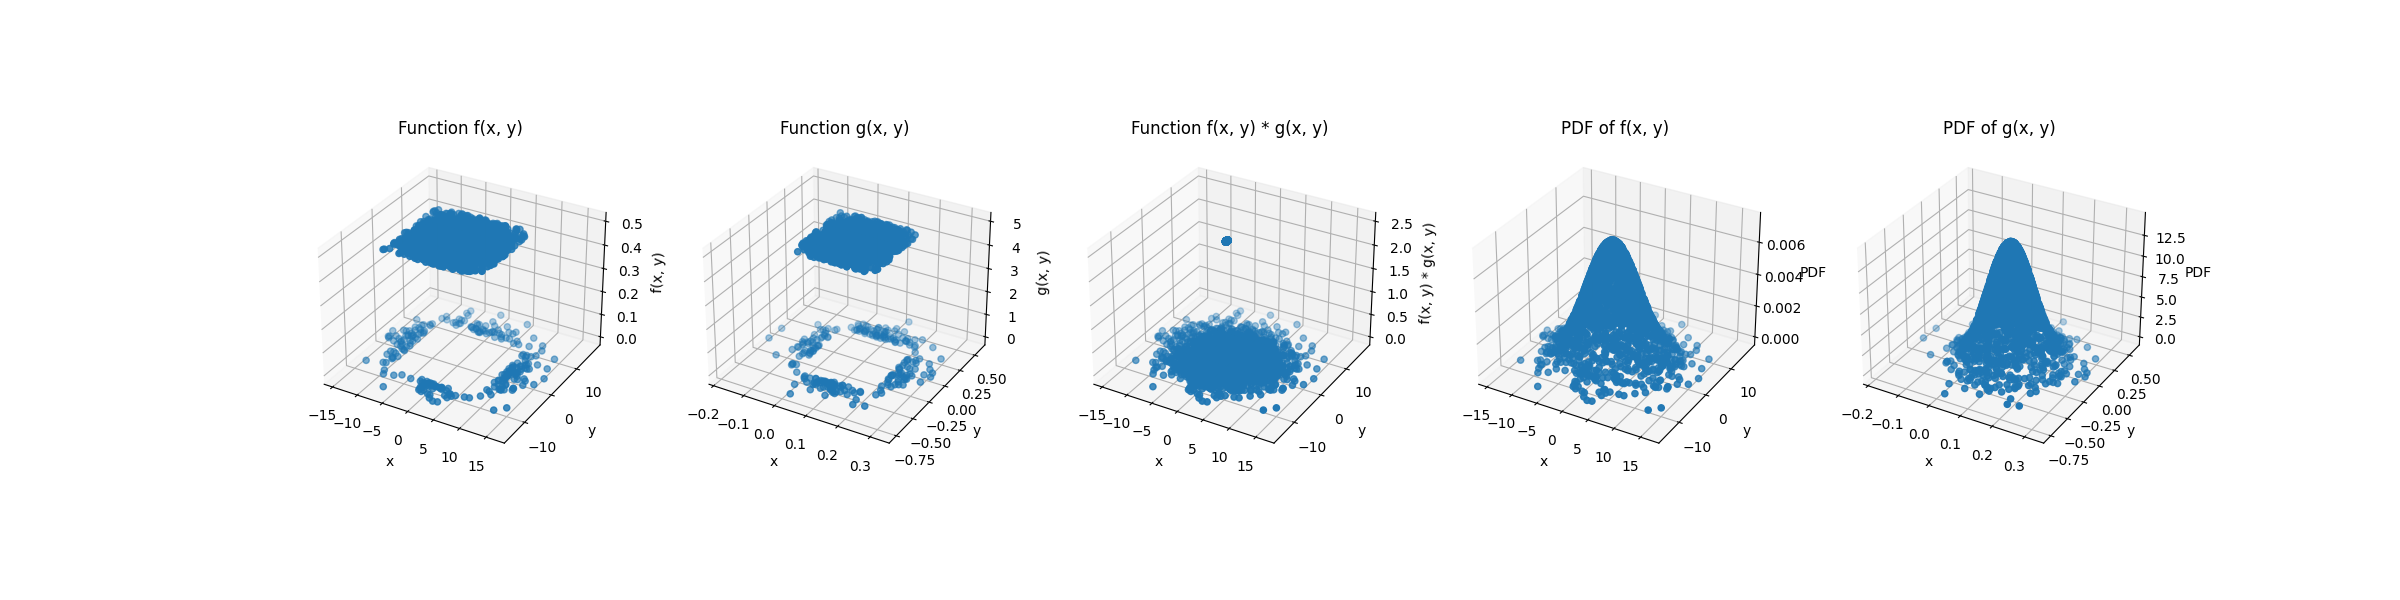
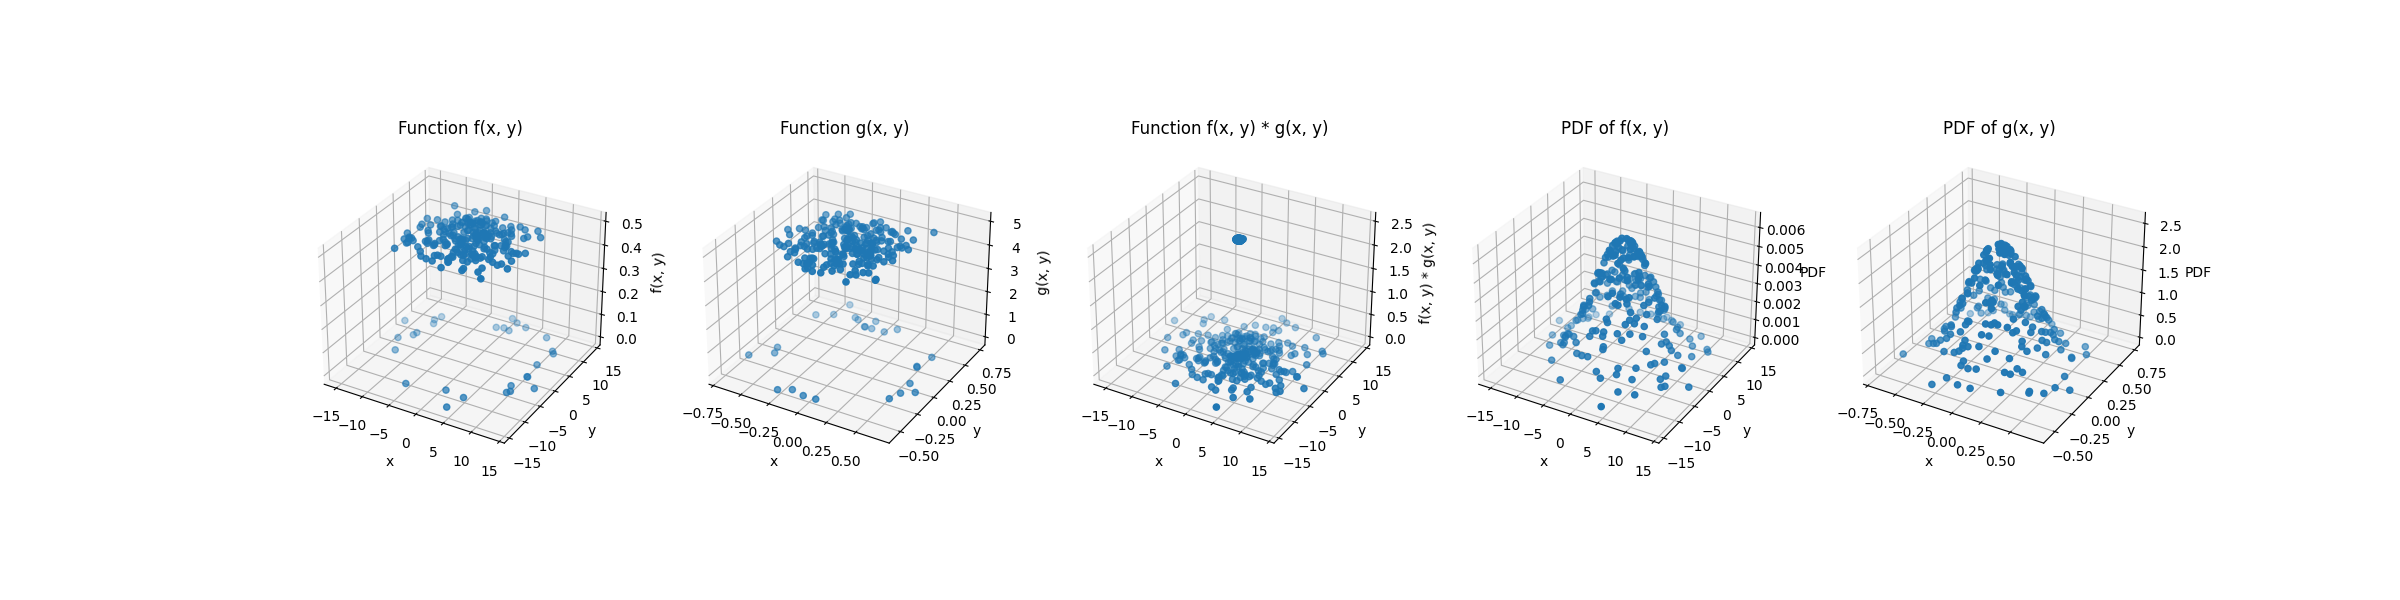
--wip-- [skip ci]

diff --git a/mis_3_prod_multidimensional.py b/mis_3_prod_multidimensional.py
@@ -310,9 +310,9 @@ def plot_functions_and_pdfs(
 
 def run_mis_estimate():
     """Main function to compute MIS estimate and plot the results."""
-    NUM_SAMPLES = 5000
+    NUM_SAMPLES = 500
 
-    n = 10
+    n = 2
     a_f = np.array(np.random.uniform(-10, -10, n))
     b_f = np.array(np.random.uniform(10, 10, n))
     c_f = 0.5
@@ -368,11 +368,11 @@ def run_mis_analysis():
 
     for test in range(NUM_TESTS):
         n = NUM_DIMENSIONS[test]
-        a_f = np.array(np.random.uniform(-10, 0, n))
-        b_f = np.array(np.random.uniform(0, 10, n))
+        a_f = np.array(np.random.uniform(-10, -10, n))
+        b_f = np.array(np.random.uniform(10, 10, n))
         c_f = 0.5
-        a_g = np.array(np.random.uniform(-0.5, 0, n))
-        b_g = np.array(np.random.uniform(0, 0.5, n))
+        a_g = np.array(np.random.uniform(-0.5, -0.5, n))
+        b_g = np.array(np.random.uniform(0.5, 0.5, n))
         c_g = 5
 
         results = {
@@ -451,5 +451,5 @@ def run_mis_analysis():
 
 
 if __name__ == "__main__":
-    # run_mis_estimate()
-    run_mis_analysis()
+    run_mis_estimate()
+    # run_mis_analysis()s
